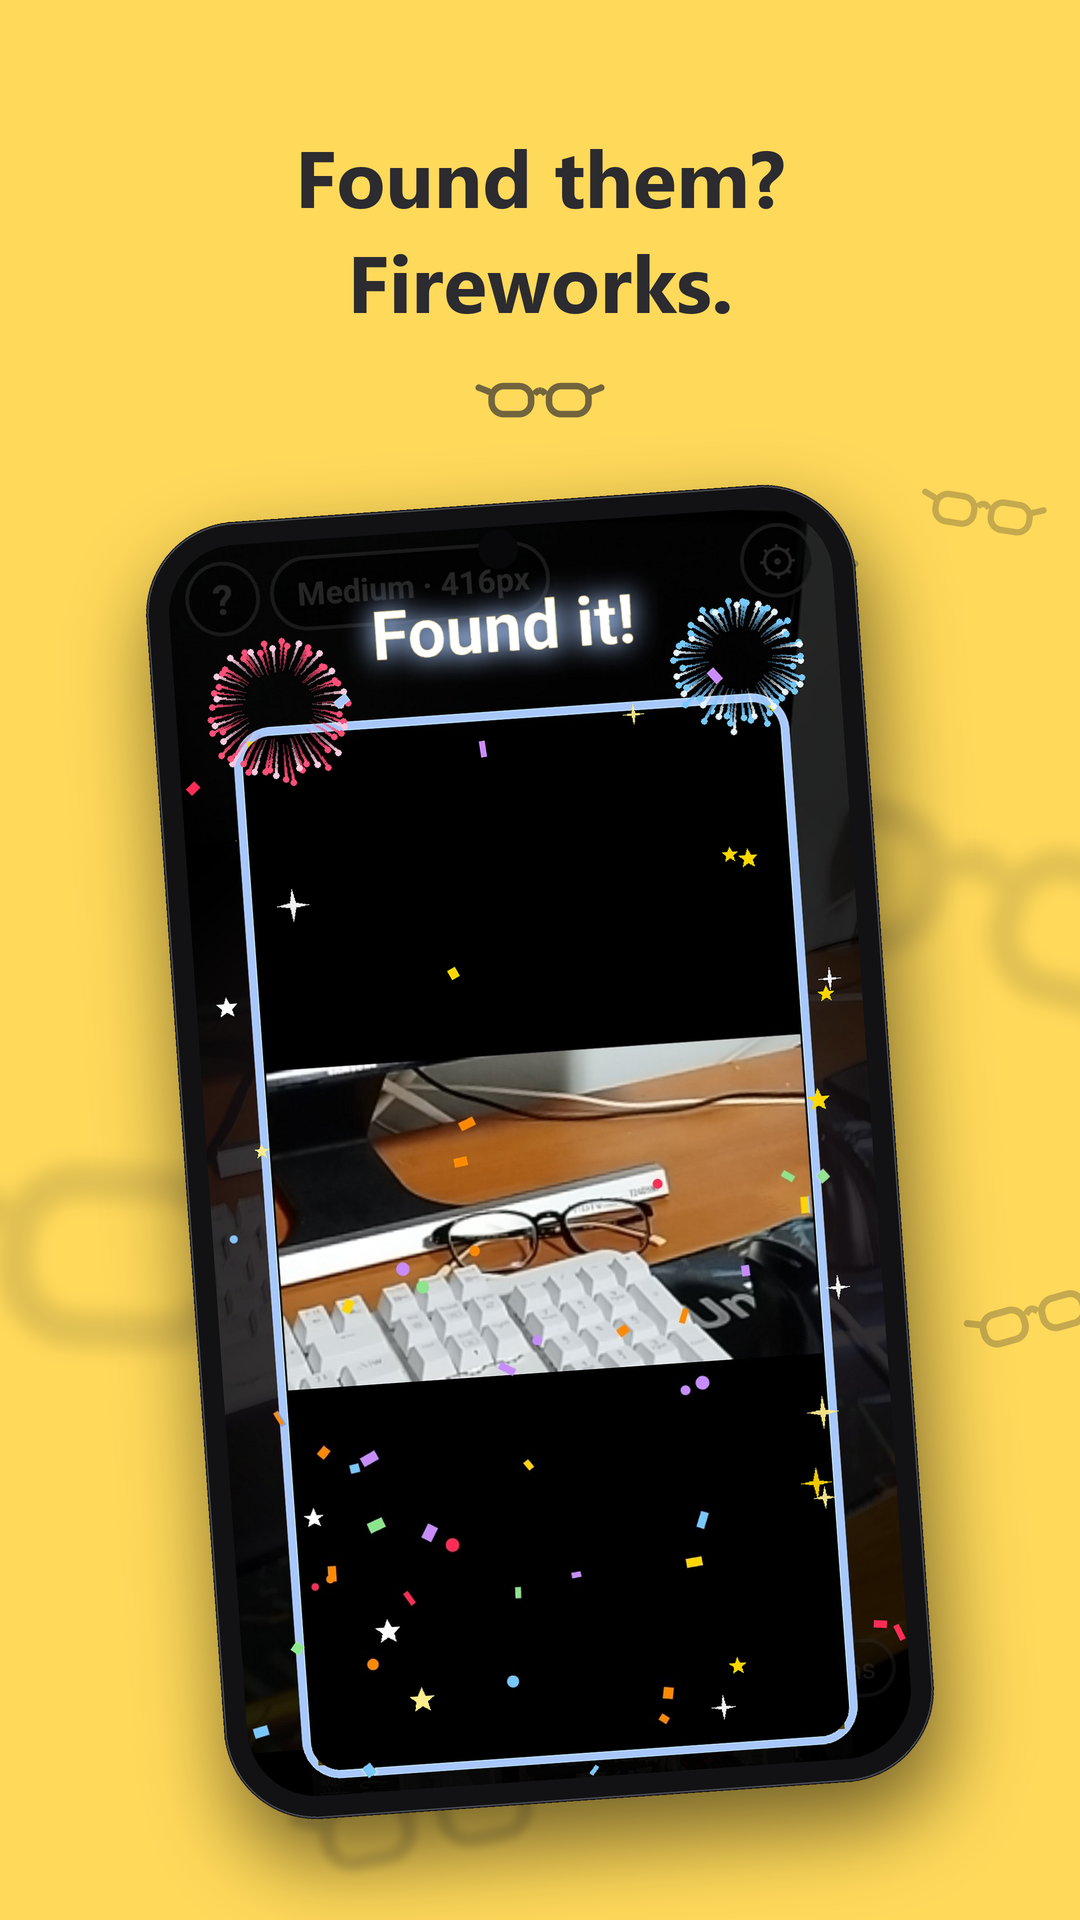
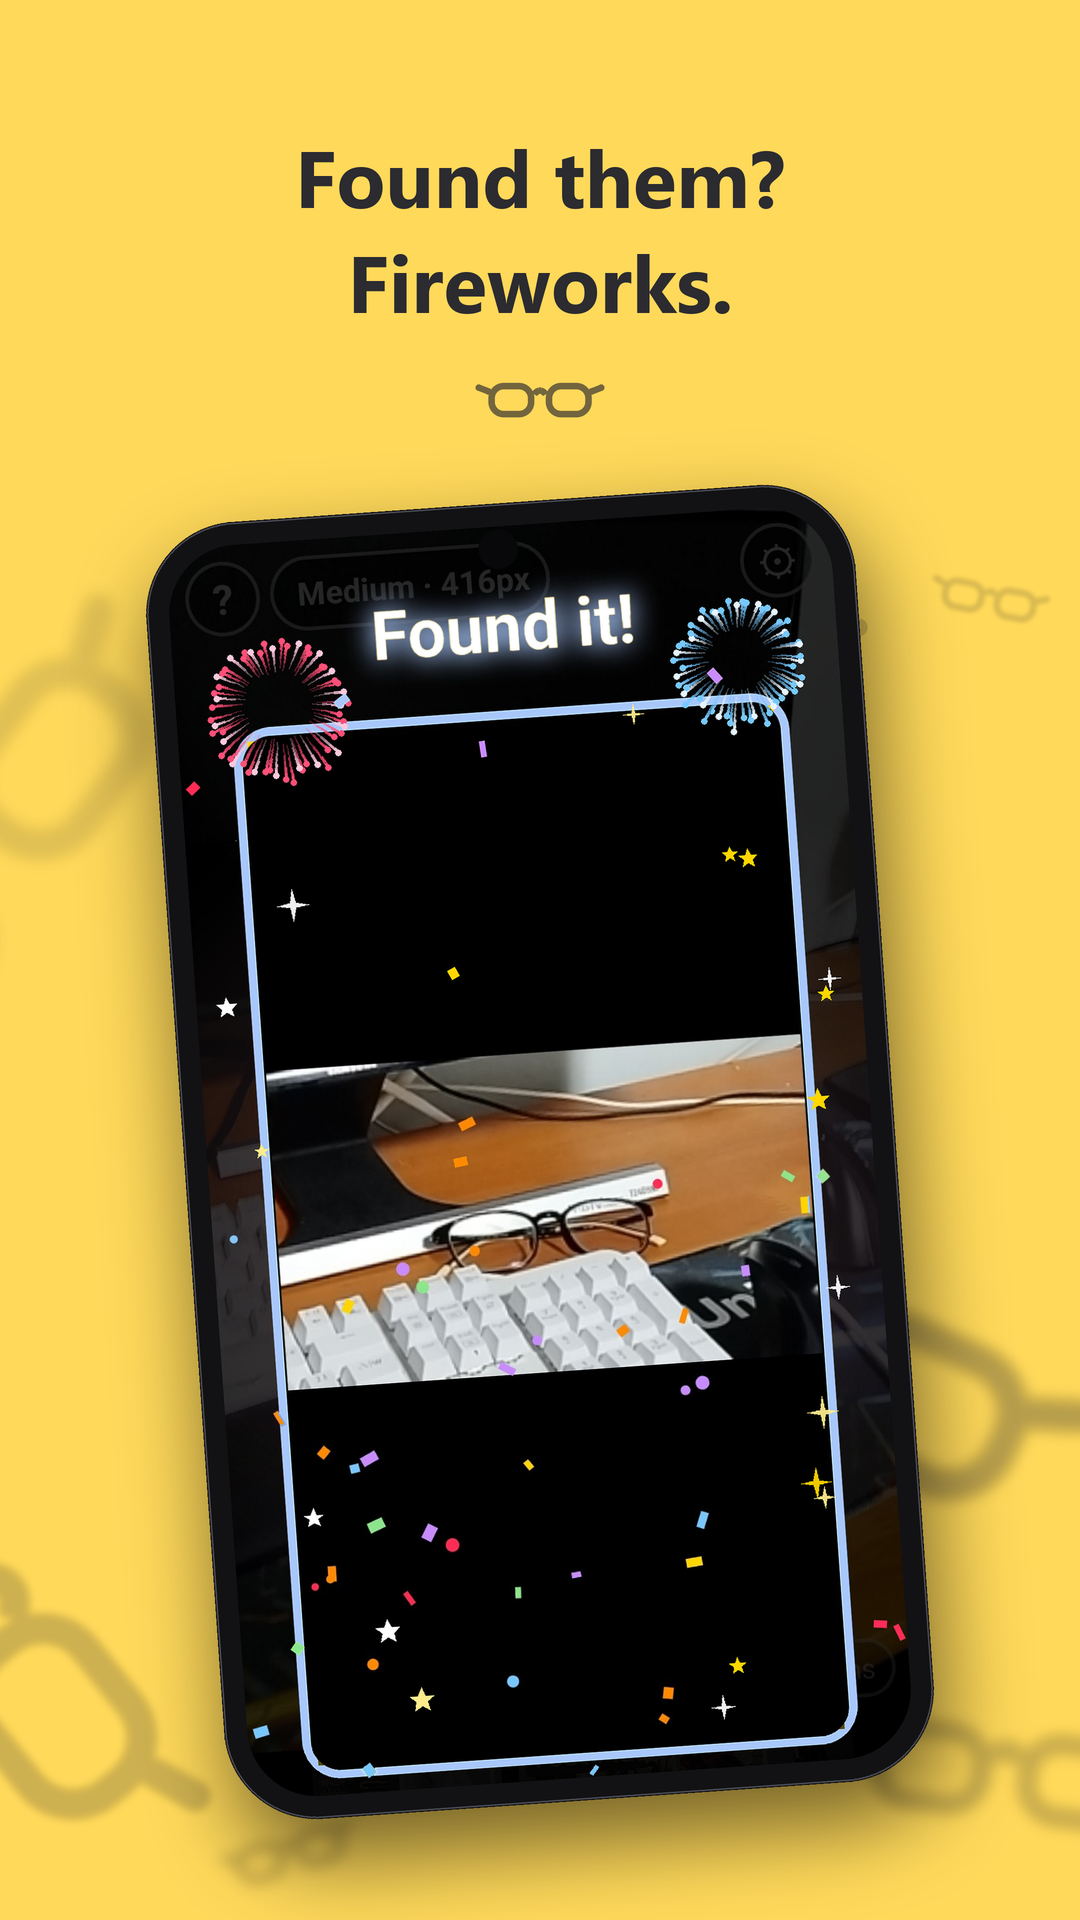
Store screenshots: glasses on the left of tile 2, more tilt on the seam glasses, varied blur and tone per glasses

diff --git a/poc/scripts/render_store_yellow.py b/poc/scripts/render_store_yellow.py
@@ -107,39 +107,54 @@ def main() -> None:
         if name:
             place(phones, phone(screen(name), PHONE_H * SS), (tile_x(i) + W // 2) * SS, PHONE_Y * SS, ang)
 
-    # 2·3장 배경 안경 — 개수는 적게, 크기 차이는 크게 (아주 큰 것 / 중간 / 작은 것).
-    # 서로 너무 붙지 않게 놓는다. 1장으로는 넘어가지 않고, 제목 자리는 비운다.
+    # 2·3장 배경 안경 — 개수는 적게, 크기 차이는 크게. 안경마다 흐림·진하기를 다르게 준다.
+    # 1장으로는 넘어가지 않고, 제목 자리는 비운다.
     # 2|3 사이 간격에 걸친 안경은 간격 부분이 버려져서, 스토어에서 나란히 보면 이어져 보인다.
     x_lo = (tile_x(1) + 30) * SS
     x_hi = PW
-    sizes = [("huge", 3), ("mid", 4), ("small", 7)]
     pattern = Image.new("RGBA", (PW, PH), (0, 0, 0, 0))
     placed = []
-    for kind, count in sizes:
+
+    def sprite(gw_px: float, ang: float) -> Image.Image:
+        alpha = int(random.uniform(28, 95))                     # 진하기 (회색 정도)
+        blur = random.choice((0, 0, 2, 4, 7, 11))               # 흐림
+        spr = glasses_sprite(int(gw_px * SS), INK + (alpha,)).rotate(ang, resample=Image.BICUBIC, expand=True)
+        return spr.filter(ImageFilter.GaussianBlur(blur * SS)) if blur else spr
+
+    def put(spr: Image.Image, cx: float, cy: float) -> None:
+        pattern.alpha_composite(spr, (int(cx - spr.width / 2), max(0, int(cy - spr.height / 2))))
+        placed.append((cx, cy, max(spr.width, spr.height) / 2))
+
+    def free(cx: float, cy: float, r: float) -> bool:
+        return all((cx - px) ** 2 + (cy - py) ** 2 >= ((r + pr) * 0.75) ** 2 for px, py, pr in placed)
+
+    # 1) 2|3 경계에 걸친 큰 안경 — 많이 기울여서
+    for cy in (random.uniform(820, 1000), random.uniform(1480, 1620)):
+        spr = sprite(random.uniform(560, 720), random.uniform(35, 60) * random.choice((1, -1)))
+        put(spr, (tile_x(2) - GAP / 2) * SS, cy * SS)
+
+    # 2) 2장 왼쪽 빈 띠에 작은·중간 안경 몇 개
+    for cy in (620, 1080, 1560):
+        for _try in range(100):
+            spr = sprite(random.uniform(90, 220), random.uniform(-35, 35))
+            r = max(spr.width, spr.height) / 2
+            cx = random.uniform(x_lo + spr.width / 2, (tile_x(1) + 230) * SS)
+            y = (cy + random.uniform(-120, 120)) * SS
+            if free(cx, y, r):
+                put(spr, cx, y)
+                break
+
+    # 3) 나머지 — 아주 큰 것 / 중간 / 작은 것을 흩어서
+    for lo, hi, count in ((560, 760, 2), (260, 360, 3), (90, 140, 5)):
         for _ in range(count):
             for _try in range(300):
-                if kind == "huge":
-                    gw, alpha, blur = random.uniform(560, 760), 36, 9
-                elif kind == "mid":
-                    gw, alpha, blur = random.uniform(260, 360), 48, 4
-                else:
-                    gw, alpha, blur = random.uniform(90, 140), 70, 0
-                gw = int(gw * SS)
-                spr = glasses_sprite(gw, INK + (alpha,)).rotate(random.uniform(-30, 30),
-                                                                resample=Image.BICUBIC, expand=True)
-                if blur:
-                    spr = spr.filter(ImageFilter.GaussianBlur(blur * SS))
+                spr = sprite(random.uniform(lo, hi), random.uniform(-30, 30))
                 r = max(spr.width, spr.height) / 2
-                cx = random.uniform(x_lo + r * 0.6, x_hi - r * 0.3)
+                cx = random.uniform(x_lo + spr.width / 2, x_hi - r * 0.3)
                 cy = random.uniform(470 * SS + r * 0.5, PH - r * 0.2)
-                if cx - spr.width / 2 < x_lo:
-                    continue
-                if any((cx - px) ** 2 + (cy - py) ** 2 < ((r + pr) * 0.75) ** 2 for px, py, pr in placed):
-                    continue
-                pattern.alpha_composite(spr, (int(cx - spr.width / 2), int(cy - spr.height / 2))
-                                        if cy - spr.height / 2 >= 0 else (int(cx - spr.width / 2), 0))
-                placed.append((cx, cy, r))
-                break
+                if free(cx, cy, r):
+                    put(spr, cx, cy)
+                    break
     canvas.alpha_composite(pattern)
     canvas.alpha_composite(phones)
 
